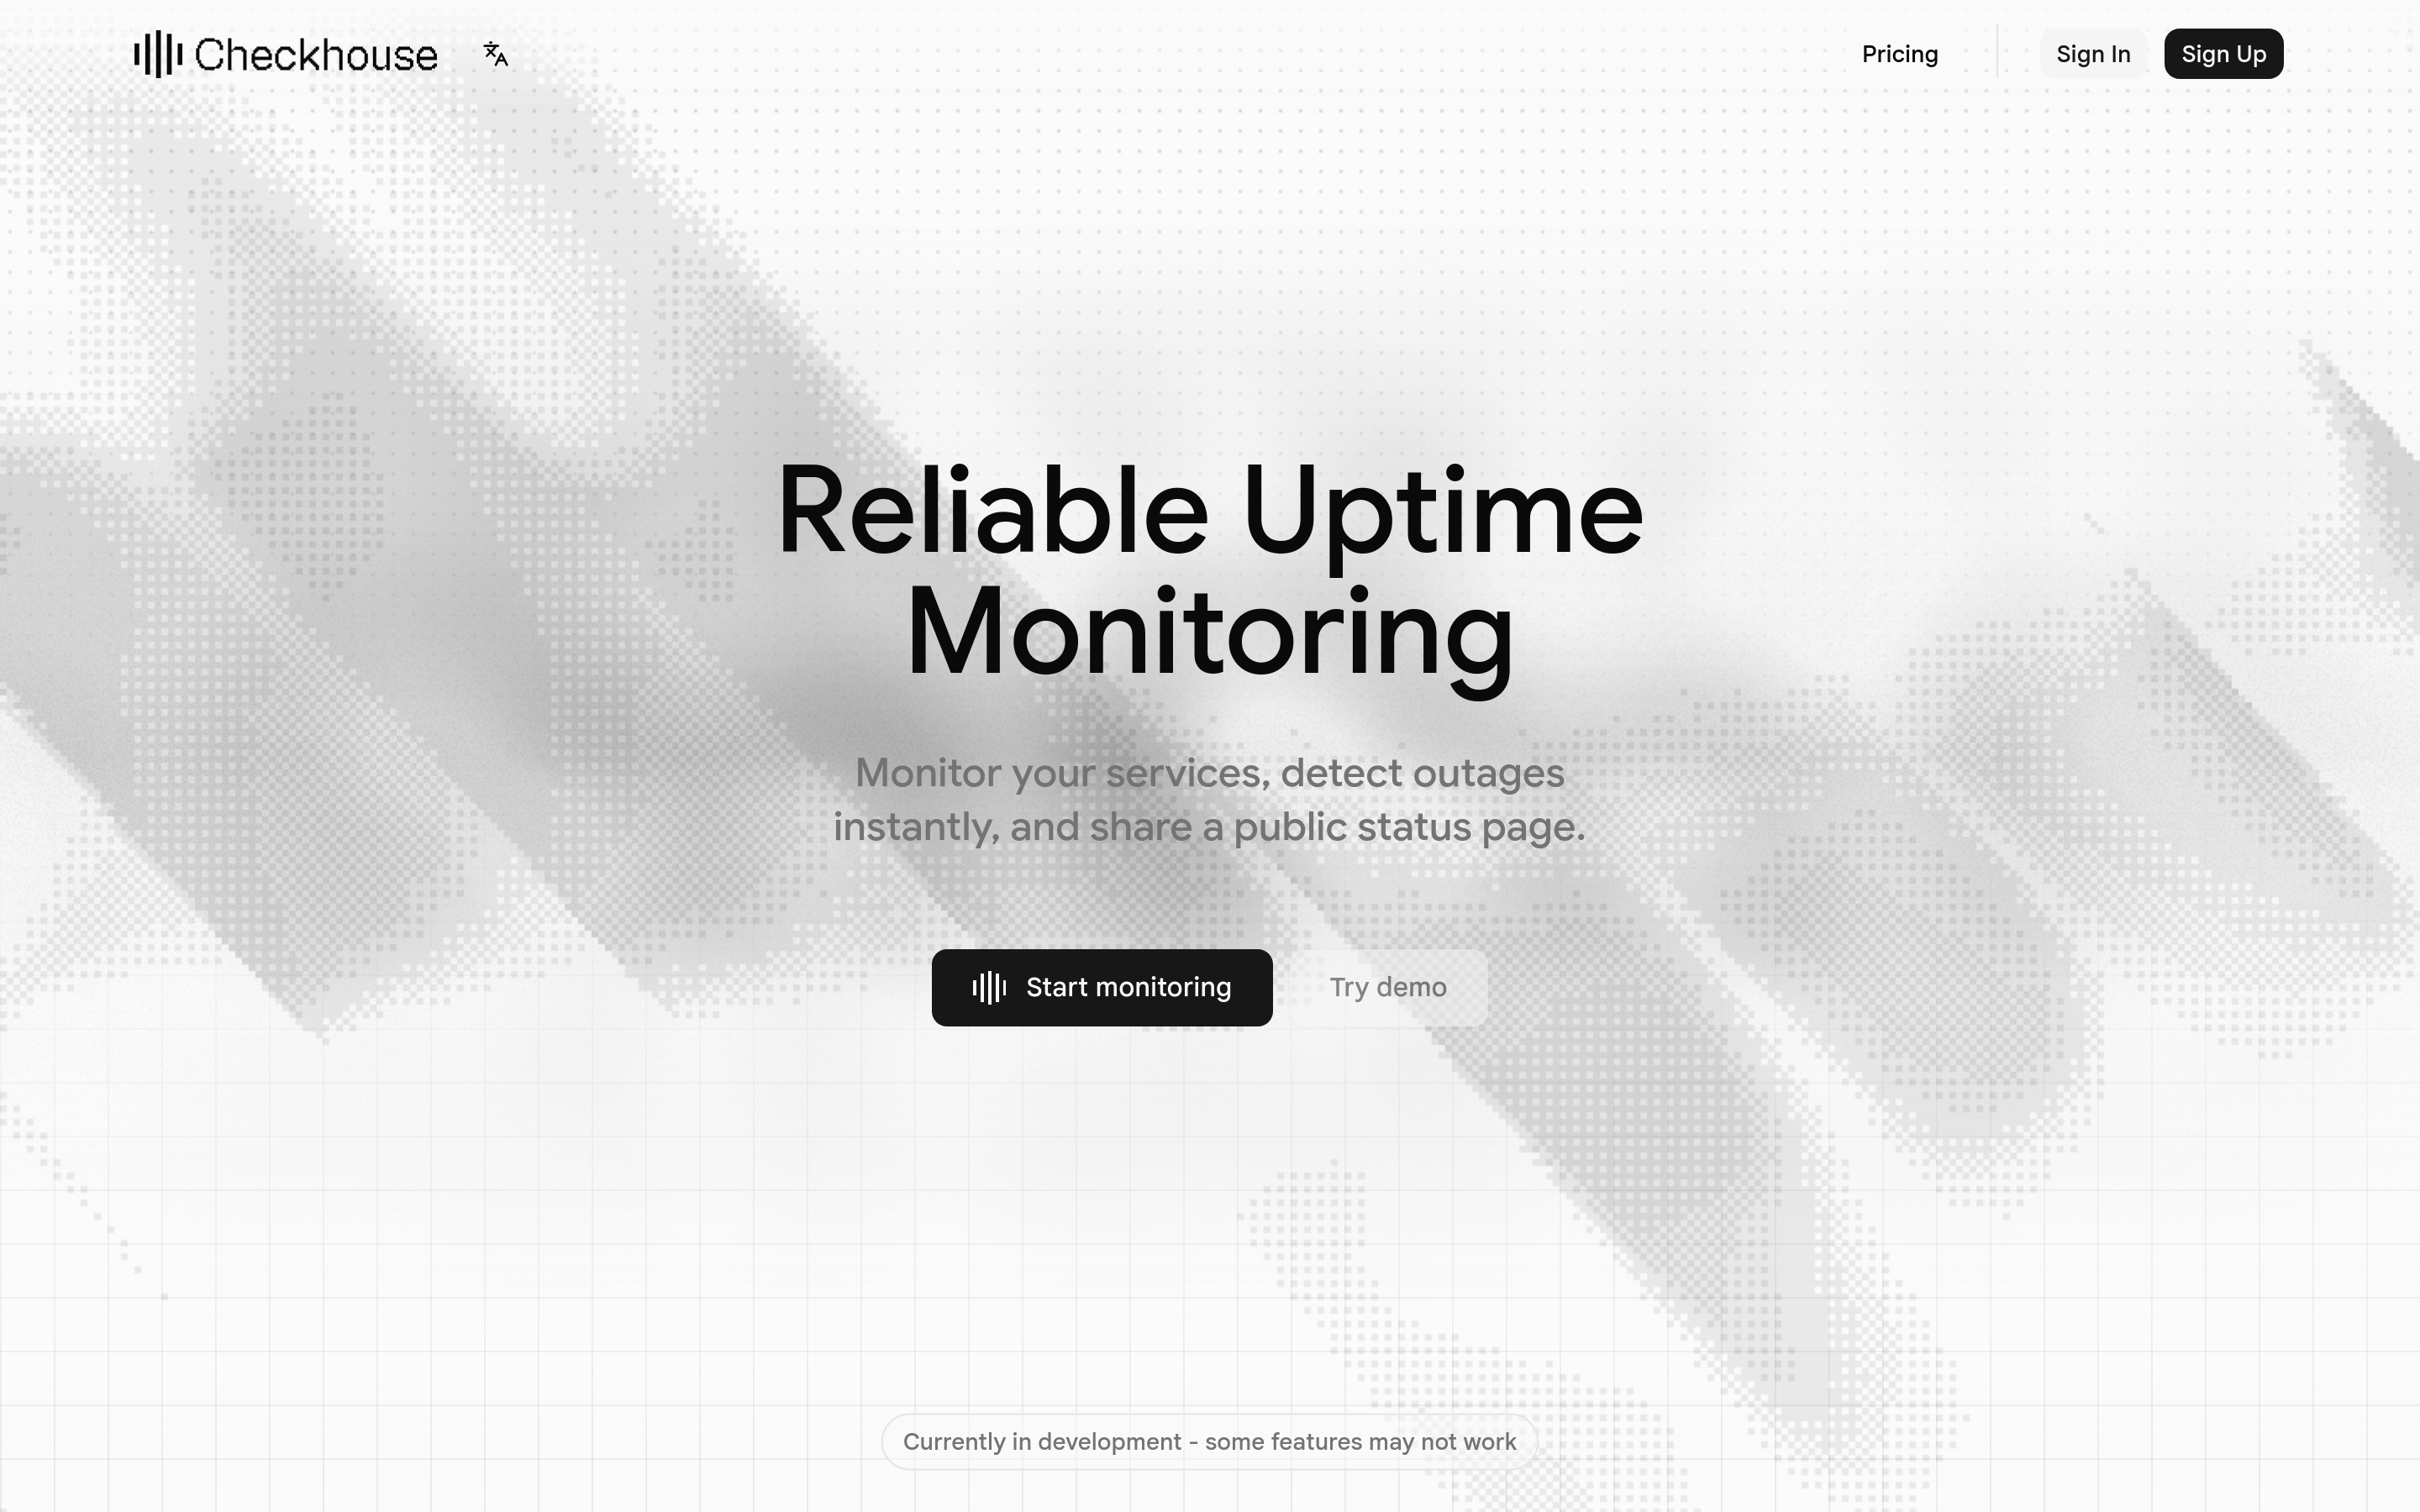
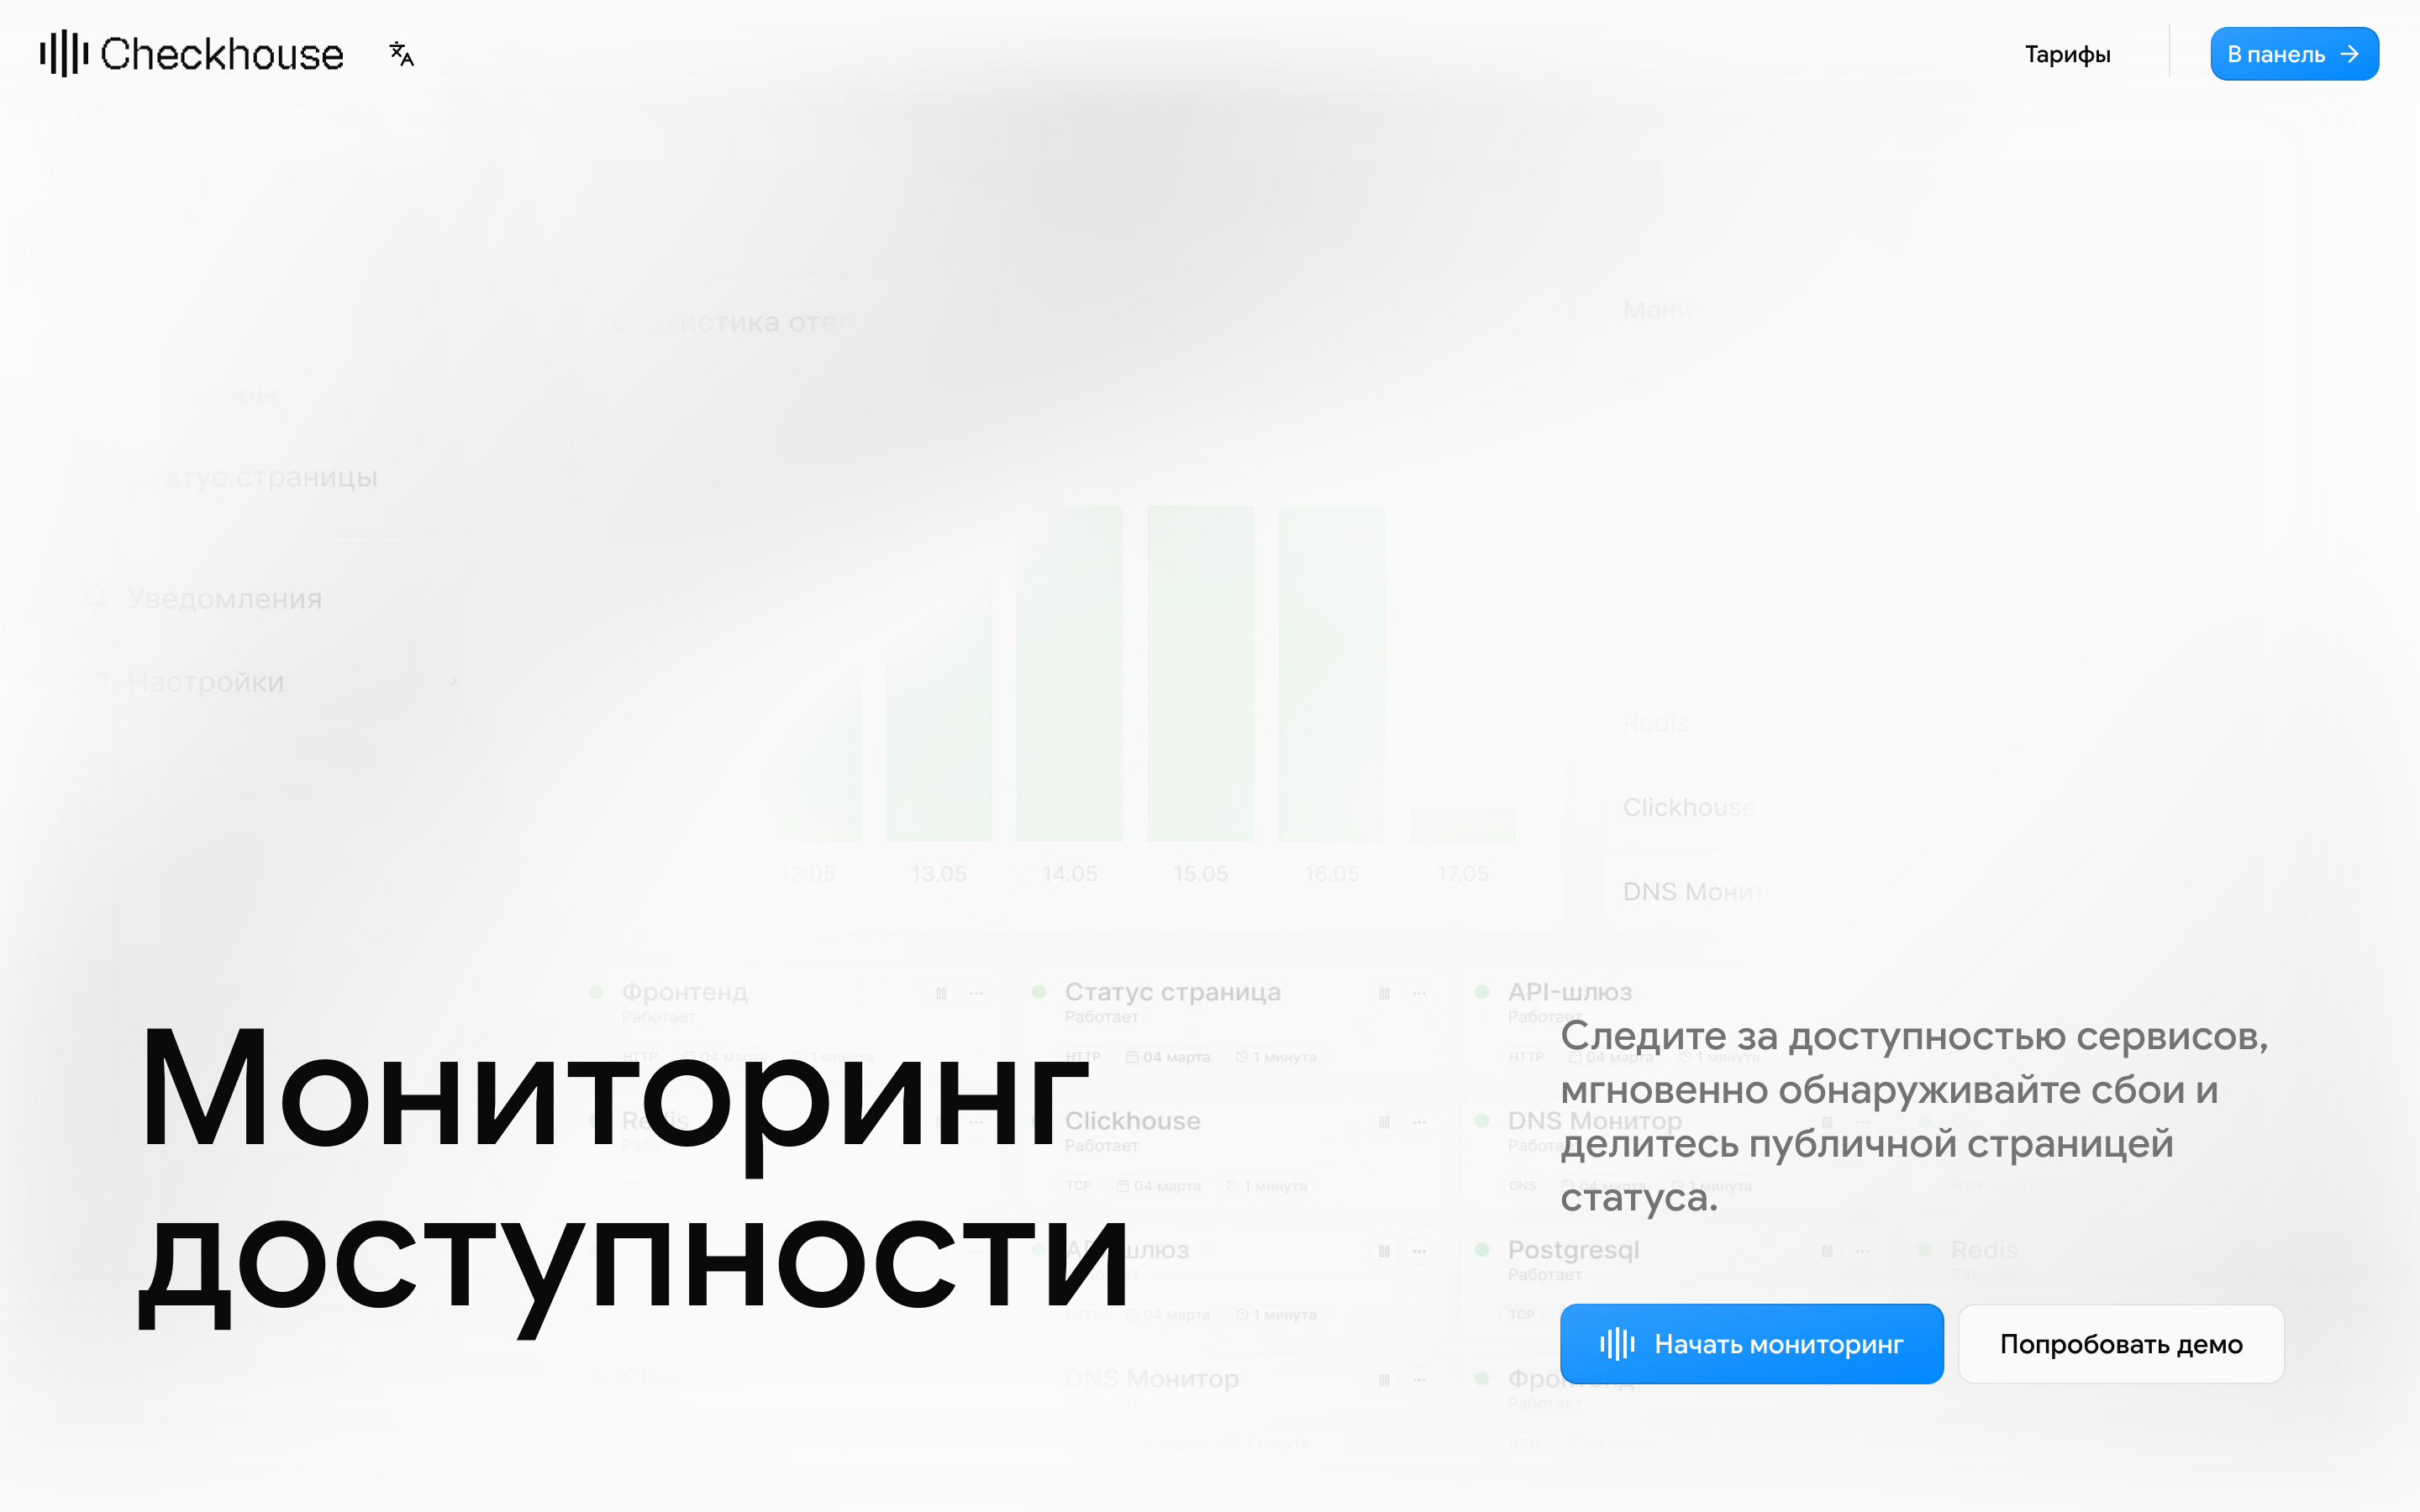
replace fonts from .ttf to .woff2, update checkhouse image

diff --git a/app/layout.tsx b/app/layout.tsx
@@ -7,22 +7,37 @@ import { isProduction } from "@/utils/env";
 import { GoogleAnalytics } from "@next/third-parties/google";
 import type { Metadata, Viewport } from "next";
 import { ThemeProvider } from "next-themes";
-import { Inter } from "next/font/google";
 import localFont from "next/font/local";
 import "./globals.css";
 
-const inter = Inter({subsets:['latin'],variable:'--font-sans'});
-const mono = localFont({
-  src: "./fonts/jetbrains-mono.ttf",
-  variable: "--font-mono",
+const sans = localFont({
+  src: [
+    { path: "./fonts/google-sans-regular.woff2", weight: "400", style: "normal" },
+    { path: "./fonts/google-sans-500.woff2", weight: "500", style: "normal" },
+  ],
+  variable: "--font-sans",
   display: "swap",
+  preload: true,
+  fallback: ["system-ui", "Inter", "sans-serif"],
+});
+
+const mono = localFont({
+  src: [
+    { path: "./fonts/jetbrains-mono-regular.woff2", weight: "400", style: "normal" },
+    { path: "./fonts/jetbrains-mono-500.woff2", weight: "500", style: "normal" },
+  ],
+  variable: "--font-mono",
+  display: "optional",
   preload: false,
   fallback: ["mono"],
 });
 const serif = localFont({
-  src: "./fonts/playfair-serif.ttf",
+  src: [
+    { path: "./fonts/playfair-regular.woff2", weight: "400", style: "normal" },
+    { path: "./fonts/playfair-500.woff2", weight: "500", style: "normal" },
+  ],
   variable: "--font-serif",
-  display: "swap",
+  display: "optional",
   preload: false,
   fallback: ["serif"],
 });
@@ -101,10 +116,15 @@ export default function RootLayout({
   return (
     <html
       lang="ru"
-      suppressHydrationWarning className={cn("font-sans", inter.variable)}
+      suppressHydrationWarning
     >
       <body
-        className={cn("antialiased", inter.variable, mono.variable, serif.variable)}
+        className={cn(
+          "antialiased",
+          sans.variable,
+          mono.variable,
+          serif.variable
+        )}
       >
         <ThemeProvider
           attribute="class"

diff --git a/app/(root)/components/home.tsx b/app/(root)/components/home.tsx
@@ -26,17 +26,21 @@ export default async function Home() {
                 <main className="size-full flex flex-col gap-8">
                   <Header />
 
-                  <p className="text-muted-foreground text-2xl leading-9 tracking-tight text-balance">
-                    В данный момент разрабатываю <Link aria-label="Checkhouse" target="_blank" className="px-1 bg-secondary rounded-md h-5 text-foreground underline" rel="noopener" href="https://checkhouse.app">
-                      <CheckhouseLogoIcon className="size-5 inline-block mb-0.5 mr-1" />
-                      Checkhouse</Link>, для мониторинга доступности(непрерывности работы) сайтов и серверов.
-                  </p>
-                  <p className="text-muted-foreground text-2xl leading-9 tracking-tight text-wrap">
-                    Также небольшой хостинг для статических сайтов <Link href="https://yz13.site" rel="noopener" className="px-1 bg-secondary rounded-md h-5 text-foreground underline">yz13.site</Link>, к нему в доплнение CLI для загрузки из терминала или CI&CD <Link href="https://hostkitjs.ru" rel="noopener" className="px-1 bg-secondary rounded-md h-5 text-foreground underline"><HostkitJSLogo className="size-5 inline-block mb-0.5 mr-1" />HostkitJS</Link>
-                  </p>
-                  <p className="text-muted-foreground text-2xl leading-9 tracking-tight text-balance">
-                    Готов помочь с разработкой и поддержкой проектов на React и NextJS. Можете связаться со мной через <Link href="https://t.me/yz13_dev" rel="noopener" className="px-1 bg-secondary rounded-md h-5 text-foreground underline">@yz13_dev</Link>, или <Link href={`mailto:${email}`} className="px-1 bg-secondary rounded-md h-5 text-foreground underline"><MailIcon className="size-5 inline-block mb-0.5 mr-1" />Почту</Link>, также загляните на мой <Link href="https://github.com/yz13-dev" className="px-1 bg-secondary rounded-md h-5 text-foreground underline">Github</Link>
-                  </p>
+                  <div className="text-balance text-muted-foreground text-2xl leading-9 tracking-tight">
+                    <p>
+                      В данный момент разрабатываю <Link aria-label="Checkhouse" target="_blank" className="px-1 bg-secondary rounded-md h-5 text-foreground underline" rel="noopener" href="https://checkhouse.app">
+                        <CheckhouseLogoIcon className="size-5 inline-block mb-0.5 mr-1" />
+                        Checkhouse</Link>, для мониторинга доступности(непрерывности работы) сайтов и серверов.
+                    </p>
+                    <br />
+                    <p>
+                      Также небольшой хостинг для статических сайтов <Link href="https://yz13.site" rel="noopener" className="px-1 bg-secondary rounded-md h-5 text-foreground underline">yz13.site</Link>, к нему в доплнение CLI для загрузки из терминала или CI&CD <Link href="https://hostkitjs.ru" rel="noopener" className="px-1 bg-secondary rounded-md h-5 text-foreground underline"><HostkitJSLogo className="size-5 inline-block mb-0.5 mr-1" />HostkitJS</Link>
+                    </p>
+                    <br />
+                    <p>
+                      Готов помочь с разработкой и поддержкой проектов на React и NextJS. Можете связаться со мной через <Link href="https://t.me/yz13_dev" rel="noopener" className="px-1 bg-secondary rounded-md h-5 text-foreground underline">@yz13_dev</Link>, или <Link href={`mailto:${email}`} className="px-1 bg-secondary rounded-md h-5 text-foreground underline"><MailIcon className="size-5 inline-block mb-0.5 mr-1" />Почту</Link>, также загляните на мой <Link href="https://github.com/yz13-dev" className="px-1 bg-secondary rounded-md h-5 text-foreground underline">Github</Link>
+                    </p>
+                  </div>
                   {/* contributions */}
                   <div className="py-8">
                     <Suspense fallback={<GithubGraphSkeleton />}>

diff --git a/components/ui/button.tsx b/components/ui/button.tsx
@@ -8,9 +8,9 @@ const buttonVariants = cva(
   {
     variants: {
       variant: {
-        default: "bg-linear-to-tl from-primary to-primary/90 text-primary-foreground hover:bg-primary/80 gradient-border gradient-border-to-tl gradient-border-from-primary gradient-border-via-foreground/80 gradient-border-to-foreground/60",
+        default: "bg-linear-to-tl from-primary to-primary/80 text-primary-foreground border-none [a]:hover:bg-primary/80 gradient-border-1 gradient-border-to-tl gradient-border-from-primary/30 gradient-border-via-foreground/20 gradient-border-to-primary/20",
         outline:
-          "bg-linear-to-tl from-card to-card/80 hover:bg-input/50 hover:text-foreground aria-expanded:text-foreground gradient-border gradient-border-to-tl gradient-border-from-input gradient-border-via-card gradient-border-to-primary/20",
+          "bg-linear-to-tl from-card to-card/80 hover:bg-input/50 hover:text-foreground aria-expanded:text-foreground gradient-border gradient-border-to-tl gradient-border-from-border gradient-border-via-border/50 gradient-border-to-border",
         secondary:
           "bg-secondary text-secondary-foreground hover:bg-secondary/80 aria-expanded:bg-secondary aria-expanded:text-secondary-foreground",
         ghost:

diff --git a/wall/registry/checkhouse-og.tsx b/wall/registry/checkhouse-og.tsx
@@ -9,10 +9,10 @@ export default function Component() {
     <WallCard
       type="screenshot"
       name="checkhouse og"
-      className="aspect-[2] sm:col-span-2 dark"
+      className="sm:aspect-[2] aspect-4/3 sm:col-span-2 dark"
       containerClassName="md:p-8 p-4 bg-muted"
     >
-      <div className="rounded-xl will-change-transform bg-background relative overflow-clip drop-shadow-2xl h-full aspect-1200/628 group-hover:scale-105 transition-transform ">
+      <div className="rounded-xl will-change-transform bg-background relative overflow-clip drop-shadow-2xl sm:h-full h-fit sm:w-fit w-full aspect-1200/628 group-hover:scale-105 transition-transform ">
         <Image
           src="https://checkhouse.app/og?title=Checkhouse&description=Monitor%20your%20services%2C%20detect%20outages%20instantly%2C%20and%20share%20a%20public%20status%20page."
           className="object-fill object-top " fill alt="checkhouse Open Graph" />

diff --git a/components/ui/button-group.tsx b/components/ui/button-group.tsx
@@ -6,7 +6,7 @@ import { Separator } from "@/components/ui/separator"
 import { cn } from "@/lib/utils"
 
 const buttonGroupVariants = cva(
-  "flex w-fit items-stretch *:focus-visible:relative *:focus-visible:z-10 has-[>[data-slot=button-group]]:gap-2 has-[select[aria-hidden=true]:last-child]:[&>[data-slot=select-trigger]:last-of-type]:rounded-r-full [&>[data-slot=select-trigger]:not([class*='w-'])]:w-fit [&>input]:flex-1 *:gradient-border-none gradient-border gradient-border-to-tl gradient-border-from-input gradient-border-via-card gradient-border-to-primary/20 rounded-full p-px",
+  "flex w-fit items-stretch *:focus-visible:relative *:focus-visible:z-10 has-[>[data-slot=button-group]]:gap-2 has-[select[aria-hidden=true]:last-child]:[&>[data-slot=select-trigger]:last-of-type]:rounded-r-full [&>[data-slot=select-trigger]:not([class*='w-'])]:w-fit [&>input]:flex-1 *:gradient-border-none gradient-border gradient-border-to-tl gradient-border-from-border gradient-border-via-border/50 gradient-border-to-border rounded-full p-px",
   {
     variants: {
       orientation: {
@@ -85,3 +85,4 @@ export {
   ButtonGroupText,
   buttonGroupVariants
 }
+

diff --git a/wall/registry/checkhouse.tsx b/wall/registry/checkhouse.tsx
@@ -9,7 +9,7 @@ export default function Component() {
     <WallCard
       type="project"
       name="checkhouse"
-      className="aspect-[2] sm:col-span-2"
+      className="sm:aspect-[2] aspect-4/3 sm:col-span-2"
       containerClassName="bg-muted"
       link="https://checkhouse.app"
     >

diff --git a/wall/registry/hostkitjs.tsx b/wall/registry/hostkitjs.tsx
@@ -9,7 +9,7 @@ export default function Component() {
     <WallCard
       type="project"
       name="hostkitjs"
-      className="aspect-[2] sm:col-span-2"
+      className="sm:aspect-[2] aspect-4/3 sm:col-span-2"
       containerClassName="bg-muted"
       link="https://hostkitjs.ru"
     >

diff --git a/wall/registry/reservia-admin.tsx b/wall/registry/reservia-admin.tsx
@@ -9,7 +9,7 @@ export default function Component() {
     <WallCard
       type="screenshot"
       name="reservia admin"
-      className="aspect-[2] sm:col-span-2 dark"
+      className="sm:aspect-[2] aspect-4/3 sm:col-span-2 dark"
       containerClassName="bg-muted"
     >
       <div className="rounded-t-xl bg-background border-x relative overflow-clip border-t drop-shadow-2xl size-full group-hover:scale-105 transition-transform will-change-transform">